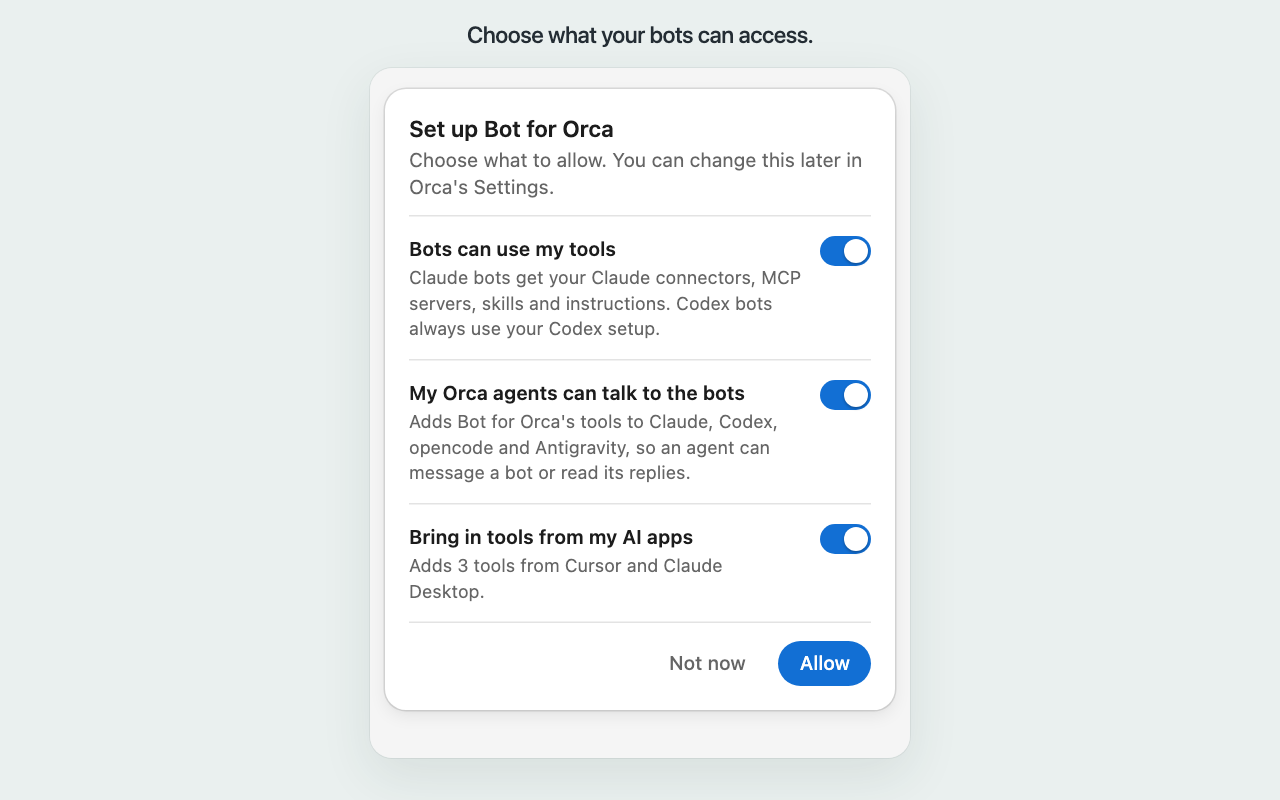
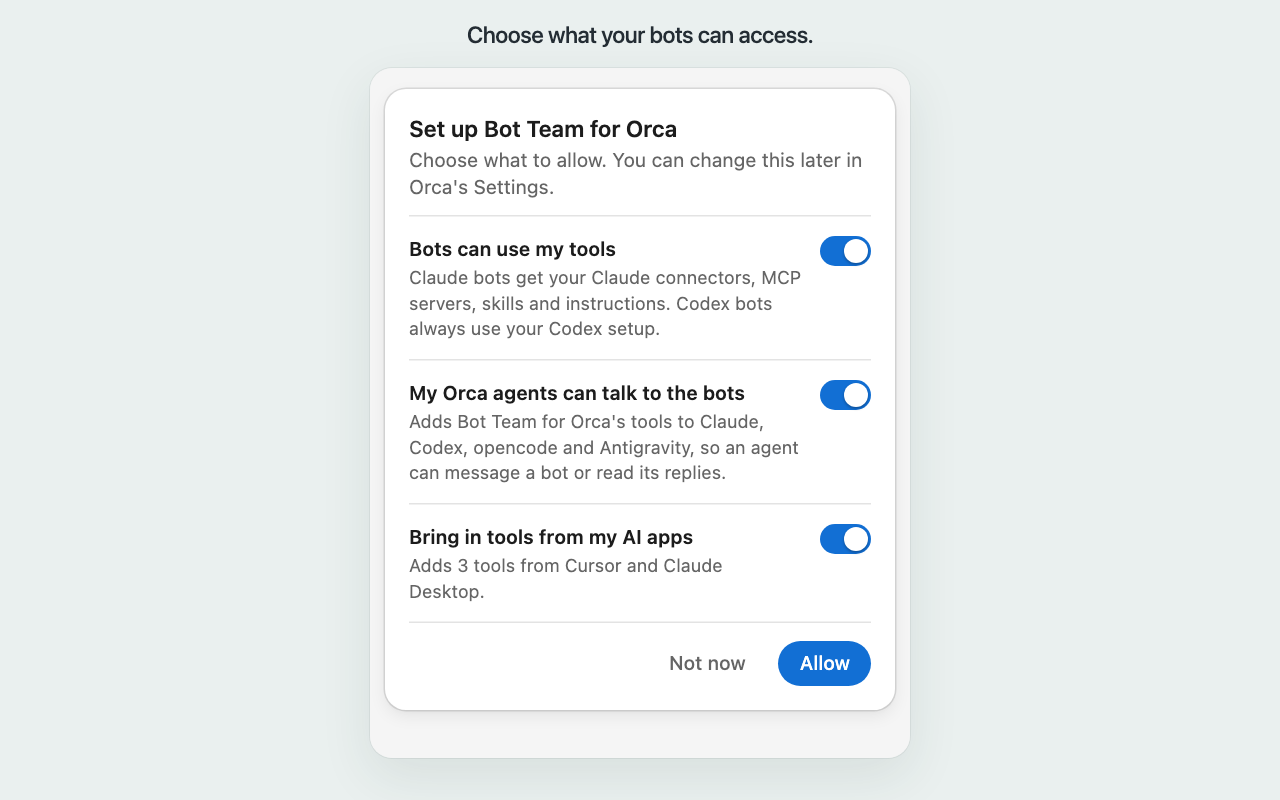
Rename to Bot Team for Orca; version 0.1.2 (#42)

Changed region(s): [[0.3125, 0.5, 0.625, 0.625], [0.4062, 0.1562, 0.5312, 0.1875]]

diff --git a/worker/worker.test.ts b/worker/worker.test.ts
@@ -67,8 +67,8 @@ test('worker preserves failure until explicit Retry', async () => {
 })
 
 test('version messages explain compatibility in either direction', () => {
-  assert.equal(versionMessage('999.0'), `OpenMausBot 999.0 is newer than the version Bot for Orca was tested with (${testedVersion}). It should work; tell us if something looks wrong.`)
-  assert.equal(versionMessage('0.0'), `OpenMausBot 0.0 is older than Bot for Orca expects (${testedVersion}). Update OpenMausBot.`)
+  assert.equal(versionMessage('999.0'), `OpenMausBot 999.0 is newer than the version Bot Team for Orca was tested with (${testedVersion}). It should work; tell us if something looks wrong.`)
+  assert.equal(versionMessage('0.0'), `OpenMausBot 0.0 is older than Bot Team for Orca expects (${testedVersion}). Update OpenMausBot.`)
   assert.equal(versionMessage(testedVersion), '')
 })
 
@@ -376,7 +376,7 @@ test('health link failure preserves running server with a generic notice', async
     await worker.request('status', {}); await new Promise<void>((resolve) => setImmediate(resolve))
     const status = await worker.request('status', {}) as any
     assert.equal(status.state, 'running')
-    assert.equal(status.message, 'Could not update Bot for Orca setup.')
+    assert.equal(status.message, 'Could not update Bot Team for Orca setup.')
   } finally { await worker.deactivate() }
 })
 
@@ -384,7 +384,7 @@ test('failed links back off for 60 seconds, keep the notice, and retry immediate
   const deps = setupDeps()
   let now = 0, calls = 0, api: any, fail = true
   deps.now = () => now
-  deps.syncAgentLinks = async () => { calls++; if (fail) throw new Error('Could not add Bot for Orca to Codex.') }
+  deps.syncAgentLinks = async () => { calls++; if (fail) throw new Error('Could not add Bot Team for Orca to Codex.') }
   const worker = await mountWorker({ default: (orca) => { api = orca; register(orca, deps) } }, { host: mockHost({ storage: { setupAnswered: true }, settings: { linkAgents: true } }) })
   try {
     await worker.request('status', {}); await new Promise<void>((resolve) => setImmediate(resolve))
@@ -392,7 +392,7 @@ test('failed links back off for 60 seconds, keep the notice, and retry immediate
     assert.equal(calls, 1)
     for (now = 2000; now < 60000; now += 2000) {
       const status = await worker.request('status', {}) as any
-      assert.equal(status.message, 'Could not add Bot for Orca to Codex.')
+      assert.equal(status.message, 'Could not add Bot Team for Orca to Codex.')
       assert.equal(calls, 1)
     }
     await worker.request('status', {})
@@ -416,7 +416,7 @@ test('setup answers bypass a previous link backoff but failed answers do not cau
   const deps = setupDeps()
   let now = 0, calls = 0, fail = true
   deps.now = () => now
-  deps.syncAgentLinks = async () => { calls++; if (fail) throw new Error('Could not add Bot for Orca to Claude.') }
+  deps.syncAgentLinks = async () => { calls++; if (fail) throw new Error('Could not add Bot Team for Orca to Claude.') }
   const worker = await mountWorker({ default: (orca) => register(orca, deps) }, { host: mockHost() })
   try {
     await worker.request('status', {}); await new Promise<void>((resolve) => setImmediate(resolve))
@@ -426,7 +426,7 @@ test('setup answers bypass a previous link backoff but failed answers do not cau
     await assert.rejects(worker.request('setup.answer', { shareTools: true, linkAgents: true }), /Could not finish setup/)
     assert.equal(calls, 2)
     now = 2001
-    assert.equal((await worker.request('status', {}) as any).message, 'Could not add Bot for Orca to Claude.')
+    assert.equal((await worker.request('status', {}) as any).message, 'Could not add Bot Team for Orca to Claude.')
     assert.equal(calls, 2)
     fail = false
     await worker.request('setup.answer', { shareTools: true, linkAgents: true })
@@ -452,7 +452,7 @@ test('tools handlers coalesce imports, refuse unowned servers, and sanitize fail
     try {
       assert.deepEqual(await worker.request('tools.find', {}), { tools: [{ name: 'test', source: 'Cursor' }] })
       const first = worker.request('tools.import', {})
-      if (!owned) { await assert.rejects(first, /server Bot for Orca started/); assert.equal(calls, 0); continue }
+      if (!owned) { await assert.rejects(first, /server Bot Team for Orca started/); assert.equal(calls, 0); continue }
       const second = worker.request('tools.import', {})
       await new Promise<void>(resolve => setImmediate(resolve))
       assert.equal(calls, 1)

diff --git a/worker/worker.ts b/worker/worker.ts
@@ -66,9 +66,9 @@ function defaults(): WorkerDeps {
 export function versionMessage(version: string): string {
   const tested = TESTED_OPENMAUSBOT_VERSION
   const comparison = compareVersions(version, tested)
-  if (comparison === undefined) return `OpenMausBot is running, but its version (${version}) is unknown. Bot for Orca cannot compare it with the tested version (${tested}).`
-  if (comparison > 0) return `OpenMausBot ${version} is newer than the version Bot for Orca was tested with (${tested}). It should work; tell us if something looks wrong.`
-  if (comparison < 0) return `OpenMausBot ${version} is older than Bot for Orca expects (${tested}). Update OpenMausBot.`
+  if (comparison === undefined) return `OpenMausBot is running, but its version (${version}) is unknown. Bot Team for Orca cannot compare it with the tested version (${tested}).`
+  if (comparison > 0) return `OpenMausBot ${version} is newer than the version Bot Team for Orca was tested with (${tested}). It should work; tell us if something looks wrong.`
+  if (comparison < 0) return `OpenMausBot ${version} is older than Bot Team for Orca expects (${tested}). Update OpenMausBot.`
   return ''
 }
 
@@ -104,7 +104,7 @@ export function register(orca: OrcaWorkerApi, deps: WorkerDeps = defaults()): vo
       linkMessage = ''
       linkRetryAt = -Infinity
     } catch (error) {
-      linkMessage = error instanceof Error && linkError(error.message) ? error.message : 'Could not update Bot for Orca setup.'
+      linkMessage = error instanceof Error && linkError(error.message) ? error.message : 'Could not update Bot Team for Orca setup.'
       linkRetryAt = deps.now() + 60000
       throw new Error(linkMessage)
     }
@@ -219,7 +219,7 @@ export function register(orca: OrcaWorkerApi, deps: WorkerDeps = defaults()): vo
         await pending
       }
       const port = runningPort()
-      if (!startedByPlugin || !deps.importTools) throw new Error('Tools can only be imported into a server Bot for Orca started.')
+      if (!startedByPlugin || !deps.importTools) throw new Error('Tools can only be imported into a server Bot Team for Orca started.')
       try { return await deps.importTools(port) }
       catch { throw new Error('Could not import or switch off tools. Check the Bot Dashboard.') }
     }).finally(() => { importing = undefined })

diff --git a/worker/agent-link.test.ts b/worker/agent-link.test.ts
@@ -75,19 +75,19 @@ test('unowned servers never read records or run commands', async () => {
 test('existing unrecorded Codex orca-bot entry is preserved', async () => {
   const { deps, calls } = fake(['codex'])
   deps.codexEntryExists = async () => true
-  await assert.rejects(syncAgentLinks(input, deps), { message: 'Could not add Bot for Orca to Codex.' })
+  await assert.rejects(syncAgentLinks(input, deps), { message: 'Could not add Bot Team for Orca to Codex.' })
   assert.deepEqual(calls, [])
 })
 test('failures contain only the generic agent sentence and preserve successful entries', async () => {
   const { deps, record } = fake()
   deps.execFile = async (file) => { if (file.endsWith('codex')) throw new Error('private-output') }
-  await assert.rejects(syncAgentLinks(input, deps), { message: 'Could not add Bot for Orca to Codex.' })
+  await assert.rejects(syncAgentLinks(input, deps), { message: 'Could not add Bot Team for Orca to Codex.' })
   assert.deepEqual(record(), { claude: { port: 8799, bin: deps.bin } })
 })
 test('corrupt ownership record fails closed', async () => {
   const { deps, calls } = fake()
   deps.read = () => '{bad record'
-  await assert.rejects(syncAgentLinks(input, deps), { message: 'Could not read Bot for Orca setup.' })
+  await assert.rejects(syncAgentLinks(input, deps), { message: 'Could not read Bot Team for Orca setup.' })
   assert.deepEqual(calls, [])
 })
 
@@ -134,7 +134,7 @@ for (const [agent, program, label] of [['opencode', 'opencode', 'opencode'], ['a
     const { deps, calls } = fake([program])
     deps.readConfig = () => JSON.stringify({ mcp: { servers: { 'orca-bot': { command: ['SECRET_FAKE_TOKEN'] } } } })
     deps.listAgent = async () => 'orca-bot SECRET_FAKE_TOKEN'
-    await assert.rejects(syncAgentLinks(input, deps), { message: `Could not add Bot for Orca to ${label}.` })
+    await assert.rejects(syncAgentLinks(input, deps), { message: `Could not add Bot Team for Orca to ${label}.` })
     assert.deepEqual(calls, [])
     deps.readConfig = () => { throw new Error('SECRET_FAKE_TOKEN') }
     deps.listAgent = async () => { throw new Error('SECRET_FAKE_TOKEN') }

diff --git a/listing/bots.html b/listing/bots.html
@@ -3,21 +3,21 @@
 <head>
   <meta charset="utf-8" />
   <meta name="viewport" content="width=device-width, initial-scale=1" />
-  <title>Bot for Orca</title>
+  <title>Bot Team for Orca</title>
   <link rel="stylesheet" href="styles.css" />
 </head>
 <body>
   <main>
-    <header><div id="list-header"><h1 id="list-title">Bot for Orca</h1><button id="open-page" type="button">Jump to Bot Dashboard</button></div><p id="message" role="status">Your team, one conversation away.</p></header>
+    <header><div id="list-header"><h1 id="list-title">Bot Team for Orca</h1><button id="open-page" type="button">Jump to Bot Dashboard</button></div><p id="message" role="status">Your team, one conversation away.</p></header>
     <section id="setup" aria-labelledby="setup-title" hidden>
-      <h2 id="setup-title">Set up Bot for Orca</h2>
+      <h2 id="setup-title">Set up Bot Team for Orca</h2>
       <p class="setup-lead">Choose what to allow. You can change this later in Orca's Settings.</p>
       <label class="setup-option">
         <span class="setup-copy"><strong>Bots can use my tools</strong><small>Claude bots get your Claude connectors, MCP servers, skills and instructions. Codex bots always use your Codex setup.</small></span>
         <input id="share-tools" class="switch" type="checkbox" role="switch" checked />
       </label>
       <label class="setup-option" id="link-agents-label">
-        <span class="setup-copy"><strong>My Orca agents can talk to the bots</strong><small>Adds Bot for Orca's tools to <span id="agent-names">Claude and Codex</span>, so an agent can message a bot or read its replies.</small></span>
+        <span class="setup-copy"><strong>My Orca agents can talk to the bots</strong><small>Adds Bot Team for Orca's tools to <span id="agent-names">Claude and Codex</span>, so an agent can message a bot or read its replies.</small></span>
         <input id="link-agents" class="switch" type="checkbox" role="switch" checked />
       </label>
       <label class="setup-option" id="import-tools-label" hidden>

diff --git a/listing/panel-template.html b/listing/panel-template.html
@@ -3,21 +3,21 @@
 <head>
   <meta charset="utf-8" />
   <meta name="viewport" content="width=device-width, initial-scale=1" />
-  <title>Bot for Orca</title>
+  <title>Bot Team for Orca</title>
   <link rel="stylesheet" href="styles.css" />
 </head>
 <body>
   <main>
-    <header><div id="list-header"><h1 id="list-title">Bot for Orca</h1><button id="open-page" type="button" disabled>Jump to Bot Dashboard</button></div><p id="message" role="status">Starting…</p></header>
+    <header><div id="list-header"><h1 id="list-title">Bot Team for Orca</h1><button id="open-page" type="button" disabled>Jump to Bot Dashboard</button></div><p id="message" role="status">Starting…</p></header>
     <section id="setup" aria-labelledby="setup-title" hidden>
-      <h2 id="setup-title">Set up Bot for Orca</h2>
+      <h2 id="setup-title">Set up Bot Team for Orca</h2>
       <p class="setup-lead">Choose what to allow. You can change this later in Orca's Settings.</p>
       <label class="setup-option">
         <span class="setup-copy"><strong>Bots can use my tools</strong><small>Claude bots get your Claude connectors, MCP servers, skills and instructions. Codex bots always use your Codex setup.</small></span>
         <input id="share-tools" class="switch" type="checkbox" role="switch" checked />
       </label>
       <label class="setup-option" id="link-agents-label">
-        <span class="setup-copy"><strong>My Orca agents can talk to the bots</strong><small>Adds Bot for Orca's tools to <span id="agent-names">Claude and Codex</span>, so an agent can message a bot or read its replies.</small></span>
+        <span class="setup-copy"><strong>My Orca agents can talk to the bots</strong><small>Adds Bot Team for Orca's tools to <span id="agent-names">Claude and Codex</span>, so an agent can message a bot or read its replies.</small></span>
         <input id="link-agents" class="switch" type="checkbox" role="switch" checked />
       </label>
       <label class="setup-option" id="import-tools-label" hidden>

diff --git a/panel/index.html b/panel/index.html
@@ -3,21 +3,21 @@
 <head>
   <meta charset="utf-8" />
   <meta name="viewport" content="width=device-width, initial-scale=1" />
-  <title>Bot for Orca</title>
+  <title>Bot Team for Orca</title>
   <link rel="stylesheet" href="styles.css" />
 </head>
 <body>
   <main>
-    <header><div id="list-header"><h1 id="list-title">Bot for Orca</h1><button id="open-page" type="button" disabled>Jump to Bot Dashboard</button></div><p id="message" role="status">Starting…</p></header>
+    <header><div id="list-header"><h1 id="list-title">Bot Team for Orca</h1><button id="open-page" type="button" disabled>Jump to Bot Dashboard</button></div><p id="message" role="status">Starting…</p></header>
     <section id="setup" aria-labelledby="setup-title" hidden>
-      <h2 id="setup-title">Set up Bot for Orca</h2>
+      <h2 id="setup-title">Set up Bot Team for Orca</h2>
       <p class="setup-lead">Choose what to allow. You can change this later in Orca's Settings.</p>
       <label class="setup-option">
         <span class="setup-copy"><strong>Bots can use my tools</strong><small>Claude bots get your Claude connectors, MCP servers, skills and instructions. Codex bots always use your Codex setup.</small></span>
         <input id="share-tools" class="switch" type="checkbox" role="switch" checked />
       </label>
       <label class="setup-option" id="link-agents-label">
-        <span class="setup-copy"><strong>My Orca agents can talk to the bots</strong><small>Adds Bot for Orca's tools to <span id="agent-names">Claude and Codex</span>, so an agent can message a bot or read its replies.</small></span>
+        <span class="setup-copy"><strong>My Orca agents can talk to the bots</strong><small>Adds Bot Team for Orca's tools to <span id="agent-names">Claude and Codex</span>, so an agent can message a bot or read its replies.</small></span>
         <input id="link-agents" class="switch" type="checkbox" role="switch" checked />
       </label>
       <label class="setup-option" id="import-tools-label" hidden>

diff --git a/listing/setup.html b/listing/setup.html
@@ -3,21 +3,21 @@
 <head>
   <meta charset="utf-8" />
   <meta name="viewport" content="width=device-width, initial-scale=1" />
-  <title>Bot for Orca</title>
+  <title>Bot Team for Orca</title>
   <link rel="stylesheet" href="styles.css" />
 </head>
 <body>
   <main>
     
     <section id="setup" aria-labelledby="setup-title">
-      <h2 id="setup-title">Set up Bot for Orca</h2>
+      <h2 id="setup-title">Set up Bot Team for Orca</h2>
       <p class="setup-lead">Choose what to allow. You can change this later in Orca's Settings.</p>
       <label class="setup-option">
         <span class="setup-copy"><strong>Bots can use my tools</strong><small>Claude bots get your Claude connectors, MCP servers, skills and instructions. Codex bots always use your Codex setup.</small></span>
         <input id="share-tools" class="switch" type="checkbox" role="switch" checked />
       </label>
       <label class="setup-option" id="link-agents-label">
-        <span class="setup-copy"><strong>My Orca agents can talk to the bots</strong><small>Adds Bot for Orca's tools to <span id="agent-names">Claude, Codex, opencode and Antigravity</span>, so an agent can message a bot or read its replies.</small></span>
+        <span class="setup-copy"><strong>My Orca agents can talk to the bots</strong><small>Adds Bot Team for Orca's tools to <span id="agent-names">Claude, Codex, opencode and Antigravity</span>, so an agent can message a bot or read its replies.</small></span>
         <input id="link-agents" class="switch" type="checkbox" role="switch" checked />
       </label>
       <label class="setup-option" id="import-tools-label">

diff --git a/worker/omb-server.ts b/worker/omb-server.ts
@@ -216,7 +216,7 @@ export async function startServer(bin: string, port: number, deps: ServerDeps = 
     const fd = deps.open(join(folder, 'server.log'))
     let child: { pid: number; unref(): void }
     try {
-      // Bot for Orca keeps its own OpenMausBot workspace, apart from any the person already has in
+      // Bot Team for Orca keeps its own OpenMausBot workspace, apart from any the person already has in
       // ~/.openmausbot, so starting it never resumes routines or connections they set up elsewhere.
       const dataDir = join(folder, 'data')
       deps.mkdir(dataDir)
@@ -287,12 +287,12 @@ export async function stopServer(deps: ServerDeps = defaultServerDeps()): Promis
       const remaining = await health(record.port, deps, Math.min(1500, deadline - deps.now()))
       if (!remaining) {
         deps.remove(path)
-        return { stopped: true, message: 'Stopped the OpenMausBot server started by Bot for Orca.' }
+        return { stopped: true, message: 'Stopped the OpenMausBot server started by Bot Team for Orca.' }
       }
       await deps.sleep(Math.min(250, Math.max(0, deadline - deps.now())))
     }
     return { stopped: false, message: 'Sent the stop signal, but OpenMausBot health is still responding. The pid file was kept; try stopping again.' }
   } catch {
-    return { stopped: false, message: 'Could not verify or stop a server started by Bot for Orca; no other server was touched.' }
+    return { stopped: false, message: 'Could not verify or stop a server started by Bot Team for Orca; no other server was touched.' }
   }
 }

diff --git a/listing/cover.html b/listing/cover.html
@@ -1,1 +1,1 @@
-<!doctype html><html lang="en" class="light"><head><meta charset="utf-8"><title>Bot for Orca</title><link rel="stylesheet" href="stage.css"></head><body class="cover"><div class="intro"><span class="eyebrow">YOUR TEAM. IN YOUR SIDEBAR.</span><h1>Bot for Orca</h1><p>A team of AI bots in Orca's sidebar, running OpenMausBot on your Mac</p><small>Unofficial</small></div><div class="frame"><iframe title="Fictional bot team" src="bots.html"></iframe></div></body></html>
+<!doctype html><html lang="en" class="light"><head><meta charset="utf-8"><title>Bot Team for Orca</title><link rel="stylesheet" href="stage.css"></head><body class="cover"><div class="intro"><span class="eyebrow">YOUR TEAM. IN YOUR SIDEBAR.</span><h1>Bot Team for Orca</h1><p>A team of AI bots in Orca's sidebar, running OpenMausBot on your Mac</p><small>Unofficial</small></div><div class="frame"><iframe title="Fictional bot team" src="bots.html"></iframe></div></body></html>

diff --git a/worker/agent-link.ts b/worker/agent-link.ts
@@ -89,7 +89,7 @@ export async function syncAgentLinks(input: { enabled: boolean; owned: boolean; 
       const entry = record[agent as Agent]
       if (!agentKeys.includes(agent as Agent) || !entry || !Number.isInteger(entry.port) || typeof entry.bin !== 'string') throw new Error()
     }
-  } catch { throw new Error('Could not read Bot for Orca setup.') }
+  } catch { throw new Error('Could not read Bot Team for Orca setup.') }
   for (const agent of agentKeys) {
     const file = found[agent]
     if (!file) continue
@@ -137,7 +137,7 @@ export async function syncAgentLinks(input: { enabled: boolean; owned: boolean; 
       }
     } catch (error) {
       if (error instanceof Error && error.message === `Remove ${MCP_ENTRY_NAME} from opencode by hand.`) throw error
-      throw new Error(`Could not add Bot for Orca to ${agents[agent].label}.`)
+      throw new Error(`Could not add Bot Team for Orca to ${agents[agent].label}.`)
     }
   }
 }

diff --git a/listing/screenshot-setup.html b/listing/screenshot-setup.html
@@ -1,1 +1,1 @@
-<!doctype html><html lang="en" class="light"><head><meta charset="utf-8"><title>Choose what your bots can access.</title><link rel="stylesheet" href="stage.css"></head><body class="gallery light"><h1>Choose what your bots can access.</h1><div class="frame" style="width:540px;height:690px"><iframe title="Fictional Bot for Orca example" src="setup.html" style="width:360px;height:460px;transform:scale(1.5)"></iframe></div></body></html>
+<!doctype html><html lang="en" class="light"><head><meta charset="utf-8"><title>Choose what your bots can access.</title><link rel="stylesheet" href="stage.css"></head><body class="gallery light"><h1>Choose what your bots can access.</h1><div class="frame" style="width:540px;height:690px"><iframe title="Fictional Bot Team for Orca example" src="setup.html" style="width:360px;height:460px;transform:scale(1.5)"></iframe></div></body></html>

diff --git a/listing/screenshot-bots.html b/listing/screenshot-bots.html
@@ -1,1 +1,1 @@
-<!doctype html><html lang="en" class="light"><head><meta charset="utf-8"><title>Your team, right in the sidebar.</title><link rel="stylesheet" href="stage.css"></head><body class="gallery light"><h1>Your team, right in the sidebar.</h1><div class="frame" style="width:720px;height:688px"><iframe title="Fictional Bot for Orca example" src="bots.html" style="width:360px;height:344px;transform:scale(2)"></iframe></div></body></html>
+<!doctype html><html lang="en" class="light"><head><meta charset="utf-8"><title>Your team, right in the sidebar.</title><link rel="stylesheet" href="stage.css"></head><body class="gallery light"><h1>Your team, right in the sidebar.</h1><div class="frame" style="width:720px;height:688px"><iframe title="Fictional Bot Team for Orca example" src="bots.html" style="width:360px;height:344px;transform:scale(2)"></iframe></div></body></html>
